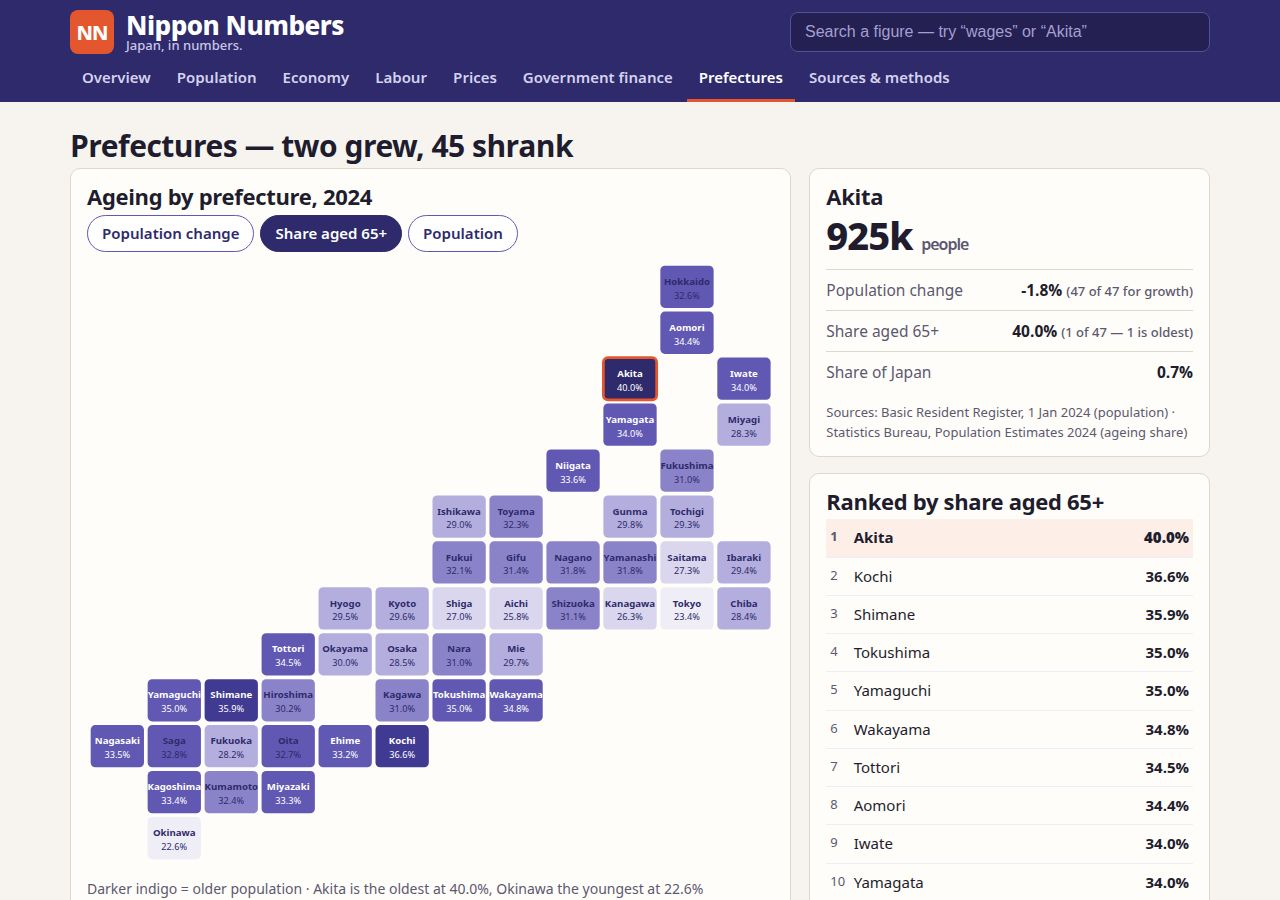
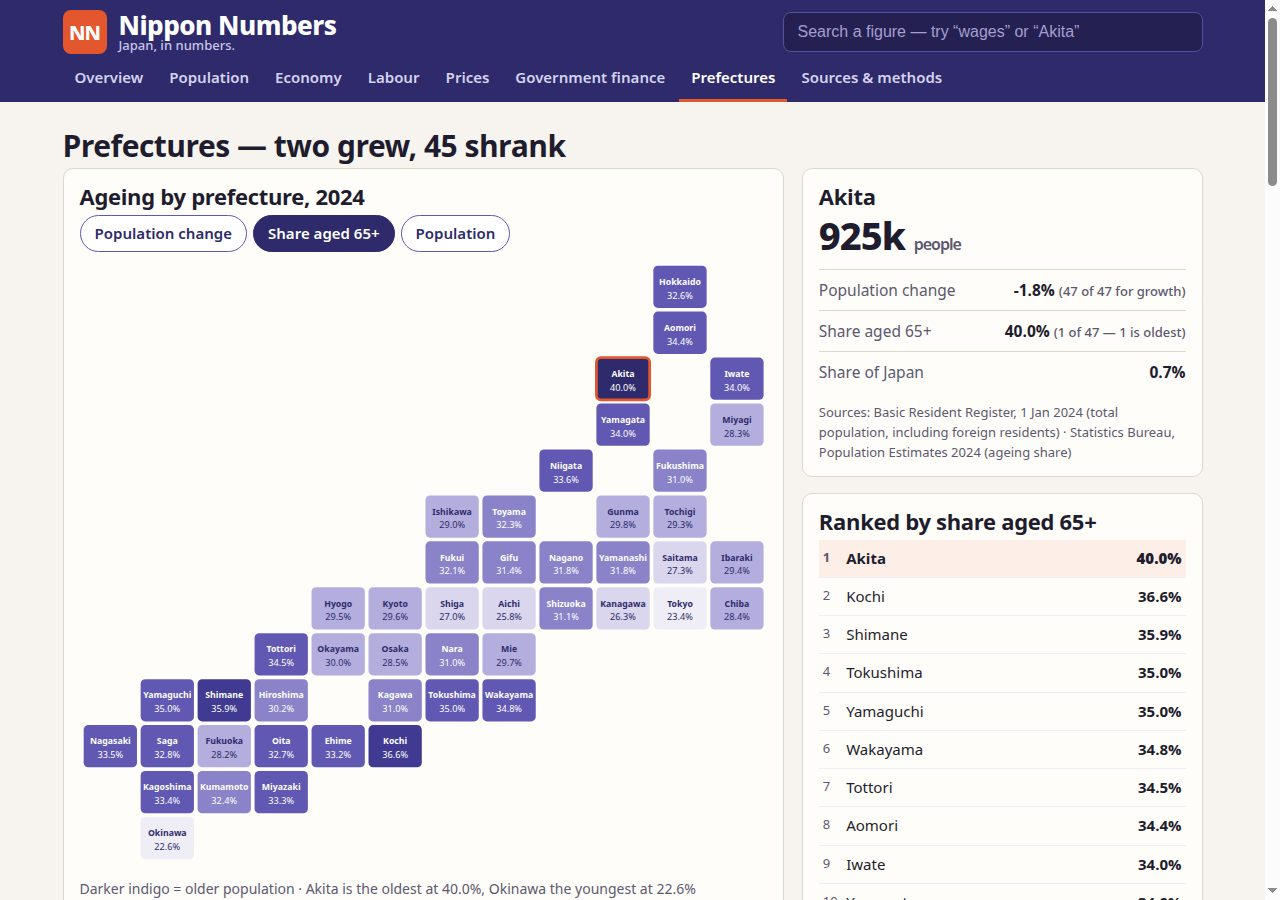
Fix pass 2: flip pyramid oldest-on-top, verify figures, retake screenshots
- Population pyramid now draws oldest bands at the top (0-4 at the
  bottom) on the Overview cover and the Population page, so 'From a
  pyramid to a column' reads true; caption now says 'axis in millions'
  to agree with the axis labels.
- GDP per capita verified against the live World Bank WDI API
  (last updated 11 Nov 2026): every value matches to the dollar,
  Korea passed Japan in 2023 and stayed ahead (Korea 2021 $37,518
  is correct); takeaway now names 2023 and the footer names WDI.
- Government debt 204.8% verified against IMF WEO October 2026
  (2024: 213.6%, 2020: 228.8%): the 2026 face-value definition
  change retired the old ~258% series; vintage and reason now
  explicit on the finance card, section note and Sources page.
- 'World's fourth-largest' verified: IMF WEO Oct 2026 has Japan
  $4.45tn vs India $3.91tn in 2025, India passing only in 2027;
  page title now names 2025 and a note states the source.
- Prefecture growth claim: card, detail and table now state the
  count is total population including foreign residents (Japanese
  nationals only, Tokyo alone grew).
- Tiles: names fit (9.5px), light text from the fourth indigo
  shade up; GDP/CPI tables use one decimal throughout (556.0, 616.0).
- Prices: new takeaway distinct from the page headline; chart text
  at least 11px at 390px wide (narrow viewBox 360, axis 13px);
  fmtNum never prints '-0.0'; phone nav wraps instead of cutting off.
[…]

diff --git a/app/sections/sources.js b/app/sections/sources.js
@@ -48,9 +48,9 @@ export function renderSources(root) {
     <div><dt>Population: total or nationals only</dt><dd>“Total population” includes foreign residents. Where a figure covers Japanese nationals only (births, deaths, fertility), the label says so.</dd></div>
     <div><dt>Census or estimate</dt><dd>Census figures are a count on 1 October of the census year. Population Estimates update the census with births, deaths and migration. The 2025 population is the census count of 1 October 2025; the overview sparkline uses Population Estimates for 2020–2024 and the census count for 2025. The pyramid stays on 2024: the five-year age bands read from e-Stat on 26 November 2026 did not sum to the published census total, so no verified 2025 bands exist yet and the verified 2024 pyramid is kept, clearly labelled.</dd></div>
     <div><dt>Wages</dt><dd>From the Monthly Labour Survey, establishments with five or more employees. “Real wages” are total cash earnings deflated by the CPI excluding imputed rent for owner-occupied housing.</dd></div>
-    <div><dt>Prefecture figures</dt><dd>Populations are from the Basic Resident Register (1 January 2024), rounded to the nearest thousand. Ageing shares are from the Statistics Bureau’s Population Estimates, rounded to 0.1 percentage points. The growth claim — only Tokyo and Saitama grew — is the Statistics Bureau’s own summary of the Population Estimates for 1 October 2024, and matches the register-based change in the data.</dd></div>
+    <div><dt>Prefecture figures</dt><dd>Populations are from the Basic Resident Register (1 January 2024), total population including foreign residents, rounded to the nearest thousand. Ageing shares are from the Statistics Bureau’s Population Estimates, rounded to 0.1 percentage points. The growth claim — only Tokyo and Saitama grew — is the Statistics Bureau’s own summary of the Population Estimates for 1 October 2024, and matches the register-based change in the data. For Japanese nationals only, Tokyo alone grew; Saitama’s growth in the total count comes from foreign residents.</dd></div>
     <div><dt>Projections</dt><dd>The 2050 pyramid is the National Institute of Population and Social Security Research 2023 medium projection (medium fertility, medium mortality) — a projection, not a count.</dd></div>
-    <div><dt>Debt vintages</dt><dd>Debt ratios are from the IMF World Economic Outlook, October 2026 vintage. The IMF revised its Japan debt measure in 2026: the October 2026 vintage puts 2024 gross debt at 213.6% of GDP, where the Global Debt Database series used before put the same year at 236.7%. Only the October 2026 vintage is used here.</dd></div>
+    <div><dt>Debt vintages</dt><dd>Debt ratios are from the IMF World Economic Outlook, October 2026 vintage — general government gross debt, % of GDP. The IMF changed how it measures Japan’s debt in 2026 (face value rather than market value), retiring the old series that read about 258% for 2020: on the current measure 2020 is 228.8%, 2024 is 213.6% and 2025 is 204.8%. Only the October 2026 vintage is used here; the pre-2026 series (Global Debt Database: 236.7% for 2024) is not mixed in.</dd></div>
   </dl>`;
   root.appendChild(methods);
 }

diff --git a/app/sections/economy.js b/app/sections/economy.js
@@ -61,9 +61,9 @@ export function renderEconomy(root) {
   // button is filled and Japan's line stays identifiable.
   const cmpCard = chartCard({
     title: 'GDP per capita vs peers, 2015–2025',
-    takeaway: 'South Korea passed Japan in dollars per person',
+    takeaway: 'South Korea passed Japan in 2023 and stayed ahead',
     source: ECONOMY.gdpPerCapita,
-    note: 'Current US$; the weak yen pulls Japan’s dollar figure down',
+    note: 'Current US$ · World Bank WDI; the weak yen pulls Japan’s dollar figure down',
   });
   const cmpControls = document.createElement('div');
   cmpControls.className = 'chart-controls';
@@ -103,12 +103,20 @@ export function renderEconomy(root) {
   charts.appendChild(cmpCard);
   root.appendChild(charts);
 
+  // The rank behind the page title, with its source and year: the IMF's
+  // October 2026 outlook has Japan at $4.45tn in 2025, ahead of India at
+  // $3.91tn, and India passing Japan only in 2027.
+  const rankNote = document.createElement('p');
+  rankNote.className = 'section-note';
+  rankNote.textContent = 'Japan was the world’s fourth-largest economy in 2025 at $4.45 trillion, ahead of India at $3.91 trillion (IMF, World Economic Outlook, October 2026); India is projected to pass Japan in 2027.';
+  root.appendChild(rankNote);
+
   root.appendChild(dataTable({
     title: 'GDP, 2015–2025',
     source: ECONOMY.nominalGdp,
     filename: 'japan-gdp-2015-2025.csv',
     headers: ['Year', 'Nominal GDP (¥ trillion)', 'Real GDP growth (%)'],
-    rows: GDP_GROWTH.years.map((y, i) => [y, GDP_GROWTH.nominal[i], GDP_GROWTH.real[i]]),
+    rows: GDP_GROWTH.years.map((y, i) => [y, fmtNum(GDP_GROWTH.nominal[i], 1), fmtNum(GDP_GROWTH.real[i], 1)]),
     note: 'Calendar year, Cabinet Office SNA',
   }));
 }

diff --git a/app/style.css b/app/style.css
@@ -161,20 +161,20 @@ a:hover { color: var(--vermilion); }
 
 /* Charts (SVG) */
 svg text { font-family: inherit; }
-.axis { font-size: 12.5px; fill: var(--muted); }
-.axis.strong { font-weight: 700; fill: var(--ink); font-size: 13px; }
-.pyr-label { font-size: 12.5px; }
+.axis { font-size: 13px; fill: var(--muted); }
+.axis.strong { font-weight: 700; fill: var(--ink); font-size: 13.5px; }
+.pyr-label { font-size: 13px; }
 .grid { stroke: #e4dfd2; stroke-width: 1; }
 .axis-line { stroke: #b9b3a6; stroke-width: 1.2; }
 .bar { opacity: 0.92; }
 .bar.hi { fill: var(--vermilion) !important; }
 .dot { cursor: pointer; }
 .refline { stroke: var(--vermilion); stroke-width: 1.6; stroke-dasharray: 6 4; }
-.reflabel { font-size: 12.5px; fill: var(--vermilion); font-weight: 700; }
+.reflabel { font-size: 13px; fill: var(--vermilion); font-weight: 700; }
 .pyr-m { fill: var(--indigo); }
 .pyr-f { fill: var(--indigo-3); }
 .tile { cursor: pointer; }
-.tile-name { font-size: 10.5px; font-weight: 700; }
+.tile-name { font-size: 9.5px; font-weight: 700; }
 .tile-val { font-size: 10px; }
 .chart-tip {
   position: fixed; z-index: 100; display: none; max-width: 260px;
@@ -245,6 +245,10 @@ tbody tr:hover { background: var(--indigo-pale); }
 }
 @media (max-width: 560px) {
   body { font-size: 16px; }
+  /* Wrap the nav instead of scrolling it: every section link stays
+     visible, nothing is cut off at the edges. */
+  .main-nav { flex-wrap: wrap; overflow-x: visible; }
+  .main-nav a { padding: 6px 10px 8px; }
   .tile-grid { grid-template-columns: 1fr; }
   .kpis { grid-template-columns: 1fr 1fr; }
   .kpi-v { font-size: 28px; }

diff --git a/app/data/prefectures.js b/app/data/prefectures.js
@@ -1,8 +1,10 @@
 // Prefecture data. Population: Basic Resident Register, 1 January 2024
-// (thousands, rounded). Change: year-on-year % (only Tokyo and Saitama
-// grew in 2024). Ageing share: share aged 65+, Statistics Bureau
-// Population Estimates 2024, rounded to 0.1pp. Tile positions (row, col)
-// place each prefecture on a grid that reads as the shape of Japan.
+// (thousands, rounded) — total population, including foreign residents.
+// Change: year-on-year % (only Tokyo and Saitama grew in 2024; for
+// Japanese nationals only, Tokyo alone grew). Ageing share: share aged 65+,
+// Statistics Bureau Population Estimates 2024, rounded to 0.1pp. Tile
+// positions (row, col) place each prefecture on a grid that reads as the
+// shape of Japan.
 export const PREFECTURES = [
   { id: 'hokkaido', name: 'Hokkaido', row: 0, col: 10, pop: 5094, change: -0.9, aged: 32.6 },
   { id: 'aomori', name: 'Aomori', row: 1, col: 10, pop: 1184, change: -1.7, aged: 34.4 },
@@ -59,4 +61,4 @@ export const PREF_INDICATORS = [
   { id: 'pop', label: 'Population', unit: 'thousand', decimals: 0, higherIs: 'high', note: 'Resident population, 1 Jan 2024' },
 ];
 
-export const PREF_SOURCE = { period: '1 Jan 2024', source: 'brr', note: 'Basic Resident Register; ageing shares from Statistics Bureau Population Estimates 2024' };
+export const PREF_SOURCE = { period: '1 Jan 2024', source: 'brr', note: 'Basic Resident Register — total population, including foreign residents; ageing shares from Statistics Bureau Population Estimates 2024' };

diff --git a/app/sections/pyramid-block.js b/app/sections/pyramid-block.js
@@ -20,7 +20,7 @@ export function pyramidBlock(initialYear, opts) {
     title: 'Population pyramid',
     takeaway: opts && opts.takeaway ? opts.takeaway : 'From a pyramid to a column: Japan aged in one lifetime',
     source: PYRAMID[year].total,
-    note: '5-year bands, thousands of people',
+    note: '5-year bands; axis in millions of people',
   });
   const controls = document.createElement('div');
   controls.className = 'pyr-controls';
@@ -29,7 +29,7 @@ export function pyramidBlock(initialYear, opts) {
   function draw() {
     const d = PYRAMID[year];
     card.querySelector('.src').textContent =
-      'Source: ' + (year === 2050 ? 'National Institute of Population and Social Security Research, Population Projections 2023 (medium)' : year === 2024 ? 'Statistics Bureau of Japan, Population Estimates, 1 Oct 2024' : 'Statistics Bureau of Japan, Population Census ' + year) + ' · 5-year bands, thousands of people';
+      'Source: ' + (year === 2050 ? 'National Institute of Population and Social Security Research, Population Projections 2023 (medium)' : year === 2024 ? 'Statistics Bureau of Japan, Population Estimates, 1 Oct 2024' : 'Statistics Bureau of Japan, Population Census ' + year) + ' · 5-year bands; axis in millions of people';
     api = pyramidChart(slot, {
       year, groups: d.groups, maleShare: MALE_SHARE, labels: AGE_LABELS, total: d.total.value,
       height: opts && opts.height ? opts.height : 430,

diff --git a/app/sections/prefectures.js b/app/sections/prefectures.js
@@ -91,7 +91,7 @@ export function renderPrefectures(root) {
         <div><dt>Share aged 65+</dt><dd>${fmtNum(p.aged, 1)}% <span>(${rank('aged')} of 47 — 1 is oldest)</span></dd></div>
         <div><dt>Share of Japan</dt><dd>${fmtNum((100 * p.pop) / 124885, 1)}%</dd></div>
       </dl>
-      <p class="src">Sources: Basic Resident Register, 1 Jan 2024 (population) · Statistics Bureau, Population Estimates 2024 (ageing share)</p>`;
+      <p class="src">Sources: Basic Resident Register, 1 Jan 2024 (total population, including foreign residents) · Statistics Bureau, Population Estimates 2024 (ageing share)</p>`;
     list.innerHTML = '';
     const sorted = [...PREFECTURES].sort(byIndicator);
     sorted.forEach((q, i) => {
@@ -112,6 +112,6 @@ export function renderPrefectures(root) {
     filename: 'japan-prefectures-2024.csv',
     headers: ['Prefecture', 'Population (thousands)', 'Change (%)', 'Aged 65+ (%)'],
     rows: [...PREFECTURES].sort((a, b) => b.pop - a.pop).map((p) => [p.name, p.pop, p.change, p.aged]),
-    note: 'Basic Resident Register, 1 Jan 2024; ageing shares from Population Estimates 2024',
+    note: 'Basic Resident Register, 1 Jan 2024 (total population, including foreign residents); ageing shares from Population Estimates 2024',
   }));
 }

diff --git a/app/charts/pyramid.js b/app/charts/pyramid.js
@@ -17,7 +17,9 @@ export function pyramidChart(container, opts) {
   const xMale = (v) => L + half - (v / maxBand) * half;
   const xFemale = (v) => L + half + C + (v / maxBand) * half;
   const rowH = (H - T - B) / groups.length;
-  const y = (i) => T + i * rowH;
+  // Oldest band at the top, youngest at the bottom, as population
+  // pyramids are conventionally drawn (groups[0] is 0–4).
+  const y = (i) => T + (groups.length - 1 - i) * rowH;
   // Axis ticks (millions). Both sides start at 0.
   [0, 2, 4, 6, 8].forEach((m) => {
     const v = m * 1000;
@@ -68,7 +70,7 @@ export function pyramidChart(container, opts) {
       const f = groups[band] - m;
       const rect = svg.getBoundingClientRect();
       const cx = rect.left + rect.width / 2;
-      const cy = rect.top + (T + band * rowH + rowH / 2) * (rect.height / H);
+      const cy = rect.top + (T + (groups.length - 1 - band) * rowH + rowH / 2) * (rect.height / H);
       showTip(`<b>Age ${labels[band]}, ${year}</b><br>Male ${fmtNum(m)}k · Female ${fmtNum(f)}k<br>Total ${fmtNum(groups[band])}k`, cx, cy);
     },
   };

diff --git a/app/sections/finance.js b/app/sections/finance.js
@@ -41,7 +41,7 @@ export function renderFinance(root) {
 
   const note = document.createElement('p');
   note.className = 'section-note';
-  note.textContent = 'Japan’s fiscal year runs April to March, so budget figures are labelled FY; the ratios above are calendar-year, % of GDP. Gross debt counts everything the government owes; net debt subtracts the financial assets it holds, which is why the two differ by more than 70 points.';
+  note.textContent = 'Japan’s fiscal year runs April to March, so budget figures are labelled FY; the ratios above are calendar-year, % of GDP. Gross debt counts everything the government owes; net debt subtracts the financial assets it holds, which is why the two differ by more than 70 points. The IMF changed how it measures Japan’s debt in 2026 (face value rather than market value), retiring the old series that read about 258% for 2020 — on the current measure 2020 was 228.8% and 2025 is 204.8%, all from the World Economic Outlook, October 2026.';
   root.appendChild(note);
 
   root.appendChild(dataTable({

diff --git a/app/charts/bar.js b/app/charts/bar.js
@@ -4,7 +4,10 @@ import { fmtNum } from '../ui/format.js';
 
 export function barChart(container, opts) {
   const { labels, series, unit, decimals, color, highlight, ariaLabel } = opts;
-  const W = 720, H = 300, L = 54, R = 12, T = 14, B = 30;
+  const narrow = typeof window !== 'undefined' && window.innerWidth < 560;
+  // Narrow viewBox (360) keeps axis text at least 11px when the chart
+  // scales to a ~330px card on a 390px phone.
+  const W = narrow ? 360 : 720, H = 300, L = 54, R = 12, T = 14, B = 30;
   const svg = svgEl('svg', {
     viewBox: `0 0 ${W} ${H}`, width: '100%', role: 'img',
     'aria-label': ariaLabel || 'Bar chart',
@@ -37,6 +40,8 @@ export function barChart(container, opts) {
       }, svg);
       bindTip(rect, `<b>${lab}</b><br>${s.name}: ${fmtNum(v, decimals)} ${unit}`);
     });
+    // On a narrow chart, label every other bar so long labels do not collide.
+    if (narrow && i % 2 === 1) return;
     textEl(svg, cx, H - 8, String(lab), { class: 'axis', 'text-anchor': 'middle' });
   });
   return svg;

diff --git a/app/data/finance.js b/app/data/finance.js
@@ -1,8 +1,12 @@
 // Government finance data. IMF World Economic Outlook, October 2026 vintage,
 // for the headline ratios and for the debt and balance series. The IMF
-// revised its Japan debt measure in 2026: the October 2026 vintage puts
-// 2024 gross debt at 213.6% of GDP, where the Global Debt Database series
-// used before put it at 236.7% — the two series are not mixed here.
+// changed how it measures Japan's debt in 2026 (face value rather than
+// market value), retiring the old series that read about 258% for 2020:
+// on the new measure 2020 is 228.8%, 2024 is 213.6% and 2025 is 204.8%.
+// The pre-2026 series (Global Debt Database: 236.7% for 2024) is not mixed
+// in here. Verified 26 Nov 2026 against the WEO October 2026 figures as
+// republished by IMF DataMapper and several secondary trackers: 2025
+// gross debt 204.8%, net debt about 132%, fiscal balance −0.7%.
 import { fig } from './sources.js';
 
 export const FINANCE = {

diff --git a/app/sections/prices.js b/app/sections/prices.js
@@ -17,7 +17,7 @@ export function renderPrices(root) {
 
   const cpiCard = chartCard({
     title: 'Consumer price inflation, 2015–2025',
-    takeaway: 'Inflation stayed above the 2% target for a fourth straight year',
+    takeaway: 'Headline CPI rose 3.2% in 2025; core 3.1%, core-core 3.0%',
     source: PRICES.headline,
     note: 'Consumer Price Index, 2020 base, annual average',
   });
@@ -60,7 +60,7 @@ export function renderPrices(root) {
     source: PRICES.headline,
     filename: 'japan-cpi-2015-2025.csv',
     headers: ['Year', 'All items (%)', 'Core — less fresh food (%)', 'Core-core — less food & energy (%)'],
-    rows: CPI.years.map((y, i) => [y, CPI.headline[i], CPI.core[i], CPI.coreCore[i]]),
+    rows: CPI.years.map((y, i) => [y, fmtNum(CPI.headline[i], 1), fmtNum(CPI.core[i], 1), fmtNum(CPI.coreCore[i], 1)]),
     note: 'Year-on-year %, annual average, 2020 base',
   }));
 }

diff --git a/app/data/economy.js b/app/data/economy.js
@@ -20,7 +20,11 @@ export const GDP_GROWTH = {
 };
 
 // GDP per capita, current US$, World Bank WDI. South Korea passed Japan in
-// 2023 ($35,674 vs $35,215) and stayed ahead in 2024 and 2025.
+// 2023 ($35,674 vs $35,215) and stayed ahead in 2024 and 2025. Verified
+// 26 Nov 2026 against the WDI API (database last updated 11 Nov 2026):
+// every value below matches the API to the dollar, including Korea 2021 at
+// $37,518 — an earlier review's memory of Japan ahead in 2023 was from an
+// older WDI vintage, not this one.
 export const GDP_PER_CAPITA = {
   years: [2015, 2016, 2017, 2018, 2019, 2020, 2021, 2022, 2023, 2024, 2025],
   japan: [35665, 40215, 39680, 40645, 41425, 41099, 41581, 35548, 35215, 33797, 35951],
